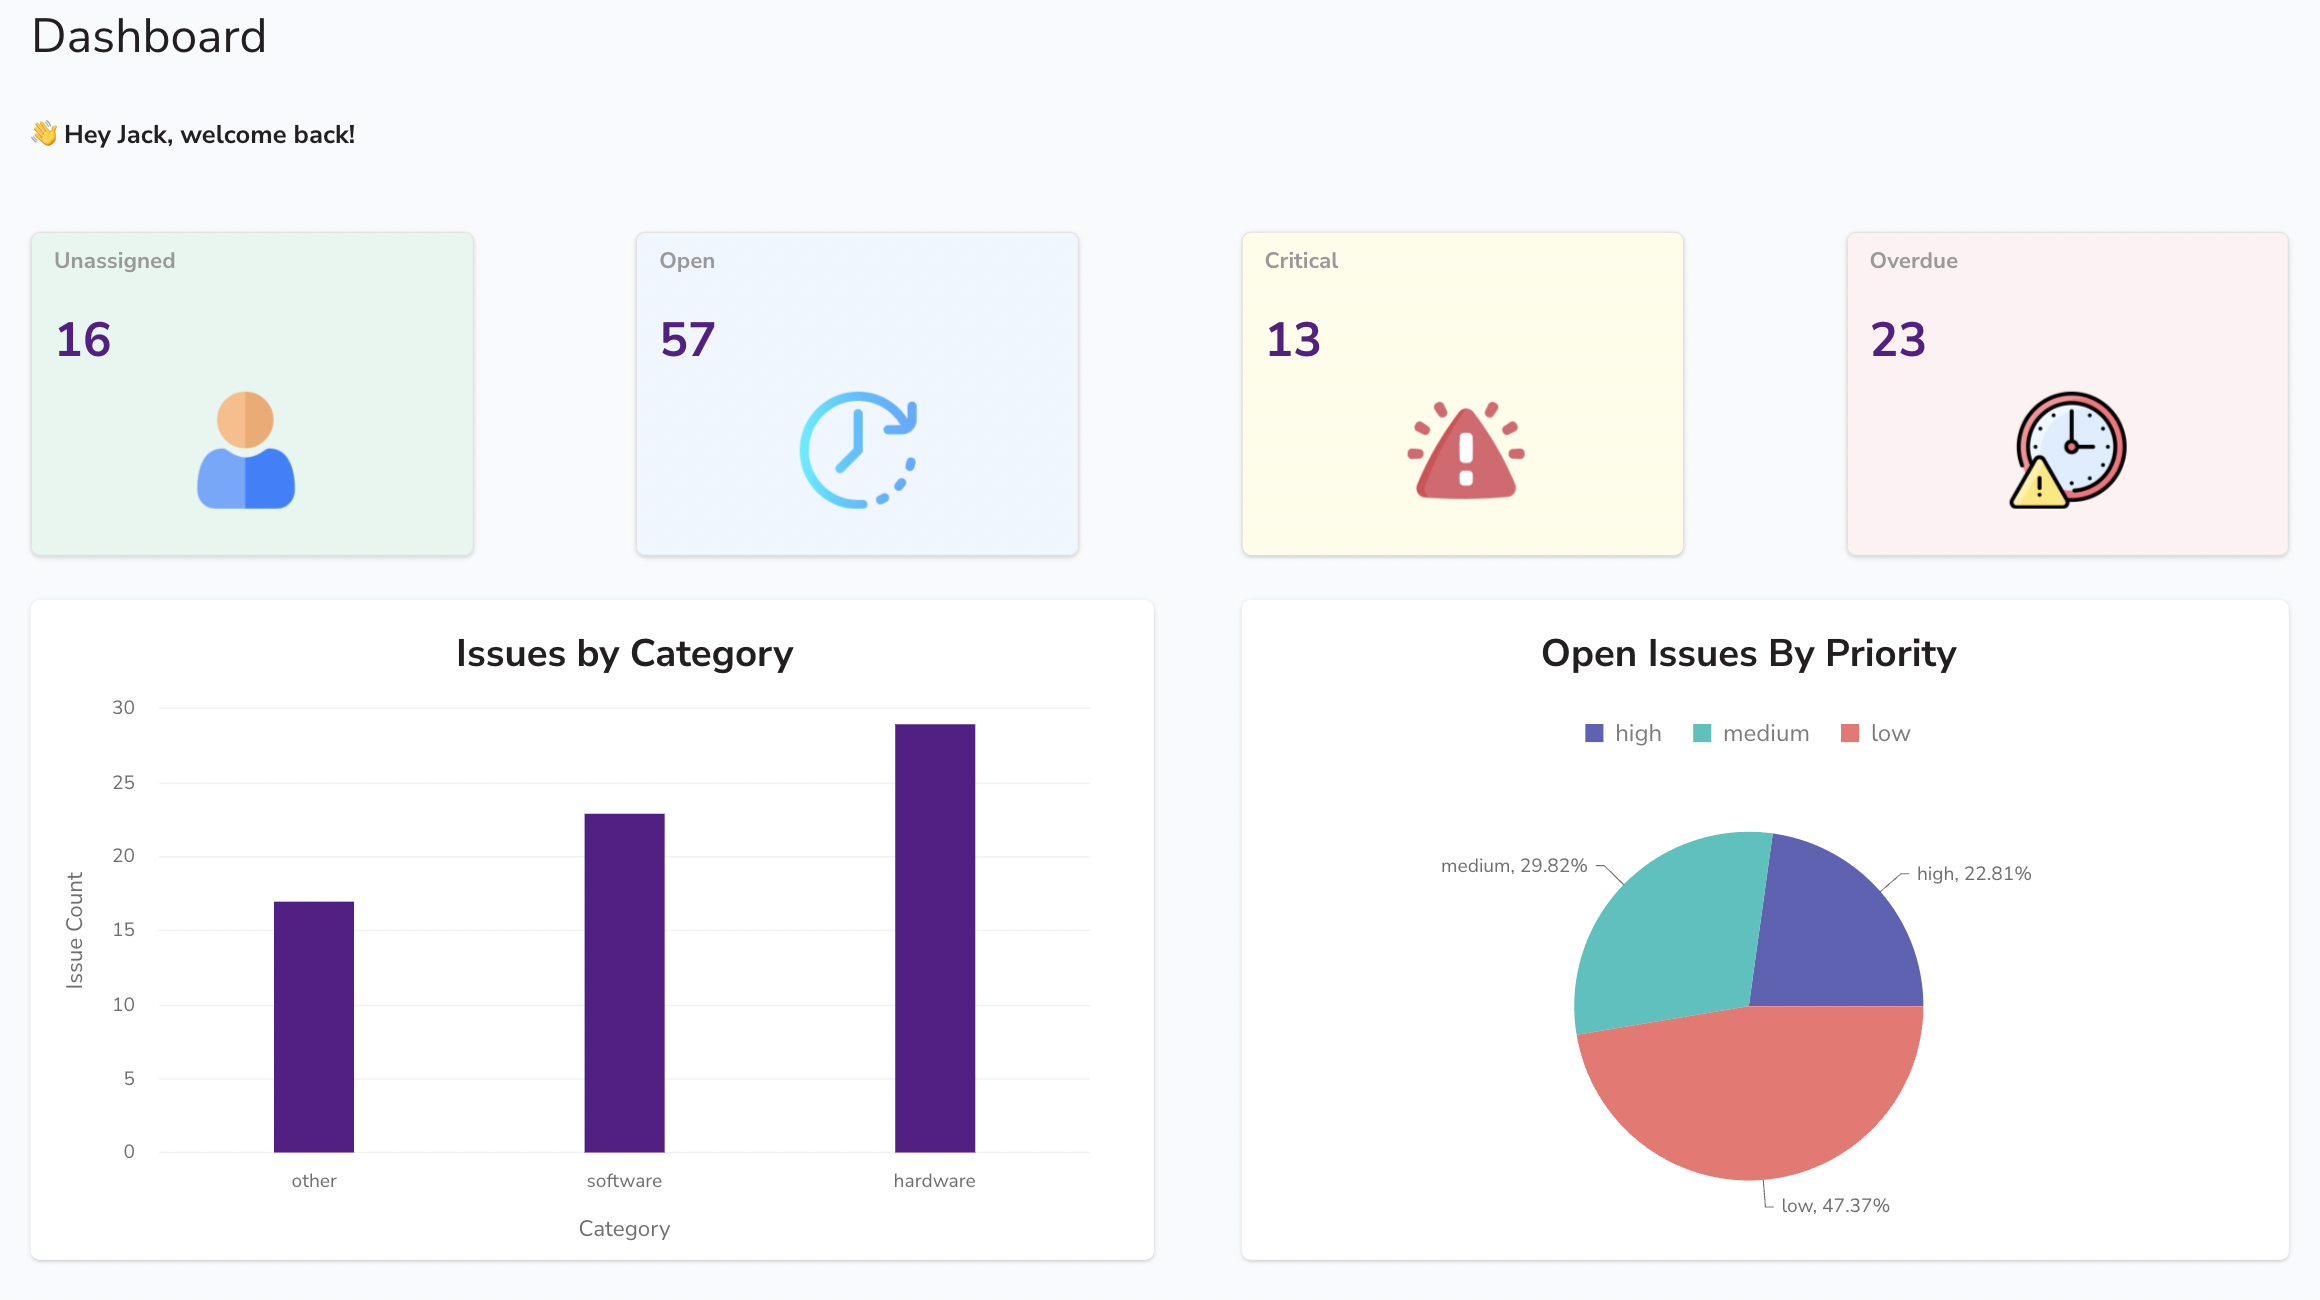
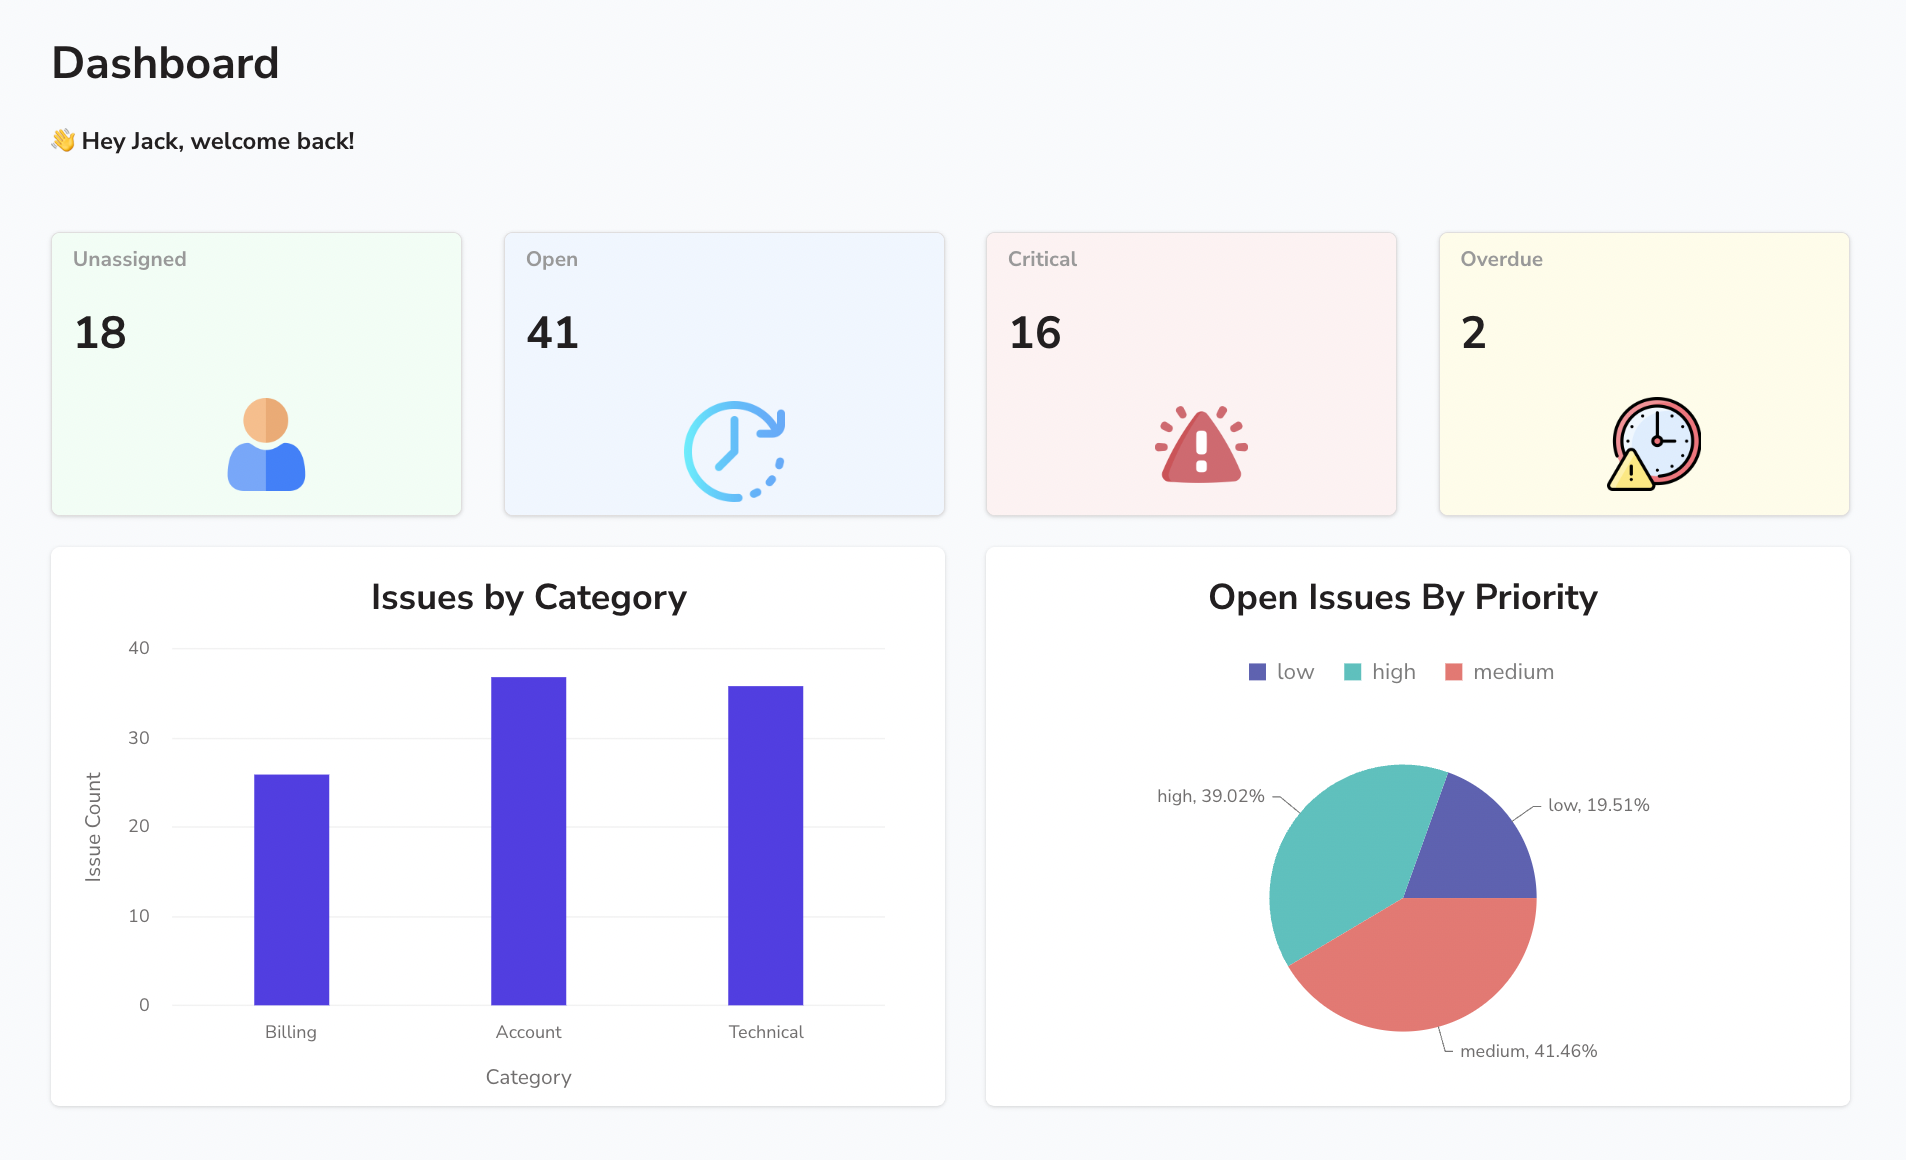
final edits

diff --git a/website/sidebars.js b/website/sidebars.js
@@ -23,7 +23,7 @@ const sidebars = {
       //getting started section start
       type: 'category',
       collapsed: false,
-      label: 'Getting Started',
+      label: 'Get Started',
       items: [
         'intro',
         {

diff --git a/website/docs/getting-started/tutorials/customer-support-tool/edit-ticket-details.md b/website/docs/getting-started/tutorials/customer-support-tool/edit-ticket-details.md
@@ -22,15 +22,21 @@ When you click a list item, you need to open a modal to edit the ticket details 
 If you accidentally close the Modal, you can open it again by selecting the name of the modal **mdlEditTicket** under the **Explorer** tab in the **Widgets** section.
 :::
 
-2. Drop a Tabs widget inside the Modal.
+2. Close the **mdlEditTicket** Modal. 
+
+3. Select the **lstTicketDetails** List.
+    - Click the **+** icon next to the **onItemClick** event.
+    - In the **Select an action** list, select **Show modal > mdlEditTicket** to open the Modal on list item click. 
+
+4. Drop a Tabs widget inside the Modal.
     - In the **Tabs** property, rename the default tab names from **Tab1** and **Tab2** to `Details` and `Comments`.
     - Increase the width of the Tabs widget using the resize handle.
 
-3. You need to display the details of the currently selected item in the List. Drop a JSON Form widget inside the **Details** tab.
+5. You need to display the details of the currently selected item in the List. Drop a JSON Form widget inside the **Details** tab.
 
 4. In the **Source data** property enter:
   ```javascript
-  {{lstTicketDetails.selectedItem}}
+  {{lstTicketDetails.triggeredItem}}
   ```
 This code displays all the details of the currently selected item in the List.
 
@@ -52,7 +58,7 @@ This code displays all the details of the currently selected item in the List.
       },
       {
         "label": "In Progress",
-        "value": "in-progress"
+        "value": "in progress"
       },
       {
         "label": "Closed",
@@ -91,20 +97,16 @@ This code displays all the details of the currently selected item in the List.
     ```javascript
     [
       {
-        "label": "Software Issues",
-        "value": "software issues"
+        "label": "Billing",
+        "value": "Billing"
       },
       {
-        "label": "Account Issues",
-        "value": "account/user issues"
+        "label": "Account",
+        "value": "Account"
       },
       {
-        "label": "Operational Issues",
-        "value": "operational issues"
-      },
-      {
-        "label": "Bug",
-        "value": "bug"
+        "label": "Technical",
+        "value": "Technical"
       }
     ]
     ```
@@ -148,11 +150,6 @@ The output should look something like this:
   <figcaption align = "center"><i>Fig 1. Edit Ticket Details</i></figcaption>
 </figure>
 
-7. Close the **mdlEditTicket** Modal. 
-
-8. Select the **lstTicketDetails** List.
-    - Click the **+** icon next to the **onItemClick** event.
-    - In the **Select an action** list, select **Show modal > mdlEditTicket** to open the Modal on list item click. 
 
 ## Write update ticket query
 
@@ -174,8 +171,8 @@ You have to create an update query to save the modified ticket details to the da
   "priority" = '{{JSONForm1.formData.priority}}',
   "category" = '{{JSONForm1.formData.category}}',
   "assigned_to" = '{{JSONForm1.formData.assigned_to}}',
-  "due_date"='{{JSONForm1.formData.due_date}}'
-  WHERE "id" = '{{lstTicketDetails.selected.id}}';
+	"due_date"='{{JSONForm1.formData.due_date}}'
+  WHERE "id" = '{{lstTicketDetails.triggeredItem.id}}';
   ```
 
 6. Return to the canvas by clicking the **← Back** button above the query editor.

diff --git a/website/docs/getting-started/tutorials/customer-support-tool/add-new-tickets.md b/website/docs/getting-started/tutorials/customer-support-tool/add-new-tickets.md
@@ -48,20 +48,16 @@ If you accidentally close the Modal, you can open it again by selecting the name
     ```javascript
     [
       {
-        "label": "Software Issues",
-        "value": "software issues"
+        "label": "Billing",
+        "value": "Billing"
       },
       {
-        "label": "Account Issues",
-        "value": "account/user issues"
+        "label": "Account",
+        "value": "Account"
       },
       {
-        "label": "Operational Issues",
-        "value": "operational issues"
-      },
-      {
-        "label": "Bug",
-        "value": "bug"
+        "label": "Technical",
+        "value": "Technical"
       }
     ]
     ```
@@ -140,8 +136,8 @@ You have to create an insert query to add the data entered in the Form into the 
 
 5. Write the following SQL query.
     ```sql
-    INSERT INTO support_ticket ("id", "created_at", "user", "description", "status", "priority", "category", "assigned_to")
-    VALUES ('{{appsmith.store.ticketid}}', '{{moment().format("LLL")}}', '{{c_user.text}}', '{{c_description.text}}', 'open', '{{c_priority.selectedOptionValue}}', '{{c_category.selectedOptionValue}}', '{{c_assignee.selectedOptionValue}}');
+    INSERT INTO support_ticket ("created_at", "user", "description", "status", "priority", "category", "assigned_to")
+    VALUES ('{{moment().format("LLL")}}', '{{c_user.text}}', '{{c_description.text}}', 'open', '{{c_priority.selectedOptionValue}}', '{{c_category.selectedOptionValue}}', '{{c_assignee.selectedOptionValue}}');
   ```
 
 6. Go back to the canvas by clicking on the **← Back** button above the query editor.
@@ -154,14 +150,11 @@ You have to create an insert query to add the data entered in the Form into the 
 
 ```javascript
 createTicket: async () => {
-  await storeValue('ticketid', Math.random().toString(36).substring(7))
-  .then(() => createTicket.run())
+  await createTicket.run()
   .then(()=> this.getFilteredTickets())
   .then(()=> closeModal('mdlNewTicket'))
 }
 ```
-
-Note that in the above JS function you are using Appsmith's local storage object using the `storeValue()` to generate and store a random number for the ticket id, which is used to the **createTicket** query above in step 5. For more information about local storage, see [storeValue()](/reference/appsmith-framework/widget-actions/store-value).
 
 <figure>
   <img src="/img/code-to-create-new-ticket.png" style= {{width:"800px", height:"auto"}} alt="JS function to submit new ticket"/>

diff --git a/website/docs/getting-started/tutorials/customer-support-tool/build-the-dashboard.md b/website/docs/getting-started/tutorials/customer-support-tool/build-the-dashboard.md
@@ -78,10 +78,12 @@ In this section, you'll learn to:
 7. Set the following values for the components in the Stat Box widget: 
 
     - In the Text widget with the default value **Page Views**, set the value in the **Text** property to `Unassigned`.
-    - In the Text widget with the default value **2.6 M**, set the value in the **Text** property using JS code to filter all the tickets that have no agents assigned to them.
-    ```javascript
-    {{getTickets.data.filter(t => t.assignedTo==null).length}}
-    ``` 
+    - In the Text widget with the default value **2.6 M**:
+      - Set the value in the **Text** property using JS code to filter all the tickets that have no agents assigned to them.
+      ```javascript
+      {{getTickets.data.filter(t => t.assigned_to==null).length}}
+      ``` 
+      - Click the **Style** tab on the *Property Pane*. Select **XL** in the **Font size** property.
     - Select the Image widget.
       - In the **Image** property, enter the below URL:
     ```javascript
@@ -117,16 +119,16 @@ In this section, you'll learn to:
 | Text       |  `Critical` |
 | Text       |  `{{getTickets.data.filter(t => t.priority==='high' && t.status==='open').length}}`|
 | Image      |  `https://cdn-icons-png.flaticon.com/512/2797/2797387.png` |
-| Background color      | `#fefce8` |
+| Background color      | `#fef2f2` |
 
 **Overdue ticket stats** 
 
 | Property | Value                         |
 | ----------------------------------  | ---------------------------------- |
 | Text    |   `Overdue` |
-| Text     |  `{{getTickets.data.filter(t => t.status==='open' && moment(t.createdAt).diff(moment(),'days') <= -30).length}}`|
+| Text     |  `{{getTickets.data.filter(t => t.status==='open' && moment(t.created_at).diff(moment(),'days') <= -30).length}}`|
 | Image    |  `https://cdn-icons-png.flaticon.com/512/10755/10755684.png` |
-| Background color      | `#fef2f2` |
+| Background color      | `#fefce8` |
 
 The output should look something like this: 
 

diff --git a/website/docs/getting-started/tutorials/customer-support-tool/view-ticket-details.md b/website/docs/getting-started/tutorials/customer-support-tool/view-ticket-details.md
@@ -114,12 +114,12 @@ Here's a screenshot of the final result:
   | Property                     |Value                                              |
   | -------------------------- | ------------------------------------------------- | 
   | Text  | `Subject: {{currentItem.description}}` |
-  | Text  | `Requested: {{moment(currentItem.createdAt).format("LLL")}}`  |
+  | Text  | `Requested: {{moment(currentItem.created_at).format("LLL")}}`  |
   | Text  | `Email: {{currentItem.user}}` |
   | Text  | `{{currentItem.status}}` |
   | Text  | `{{currentItem.priority}}` |
 
-7. Note that for the **createdAt** database column, you are using the built-in library Moment.js to format the date and time. Use the resize handle of the Text widgets to fit the contents.
+7. Note that for the **created_at** database column, you are using the built-in library Moment.js to format the date and time. Use the resize handle of the Text widgets to fit the contents.
 
 8. Let's add two Icon widgets next to the status and priority Text widgets and conditionally set the color. 
 
@@ -131,7 +131,7 @@ Here's a screenshot of the final result:
       * In the **Button Color** property, click the **JS** button and write code to show different colors for open and closed tickets as shown below:
 
 ```javascript
-{{currentItem.status == 'open' ? appsmith.theme.colors.primaryColor : currentItem.status == 'closed'? '#16a34a': currentItem.status == 'in-progress' ? '#eab308': undefined}}
+{{currentItem.status == 'open' ? appsmith.theme.colors.primaryColor : currentItem.status == 'closed'? '#16a34a': currentItem.status == 'in progress' ? '#eab308': undefined}}
 ```
 
 10. Select the Icon widget for *Priority*. 

diff --git a/website/docs/getting-started/tutorials/customer-support-tool/comments-on-tickets.md b/website/docs/getting-started/tutorials/customer-support-tool/comments-on-tickets.md
@@ -77,8 +77,8 @@ You have to create a query to add the comments entered for the ticket.
 
 5. Write the following SQL query 
   ```sql
-  INSERT INTO ticket_comment ("ticket_id", "text", "author", "id", "created_at")
-  VALUES ('{{lstTicketDetails.triggeredItem.id}}', '{{commentsBox.text}}', '{{appsmith.user.name}}', '{{Math.random().toString(36).substring(7)}}', '{{moment().format('LLL')}}');
+  INSERT INTO ticket_comment ("ticket_id", "text", "author", "created_at")
+  VALUES ('{{lstTicketDetails.triggeredItem.id}}', '{{commentsBox.text}}', '{{appsmith.user.name}}', '{{moment().format('LLL')}}');
   ```
 8. Go back to the canvas by clicking the **← Back** button above the query editor.
 
